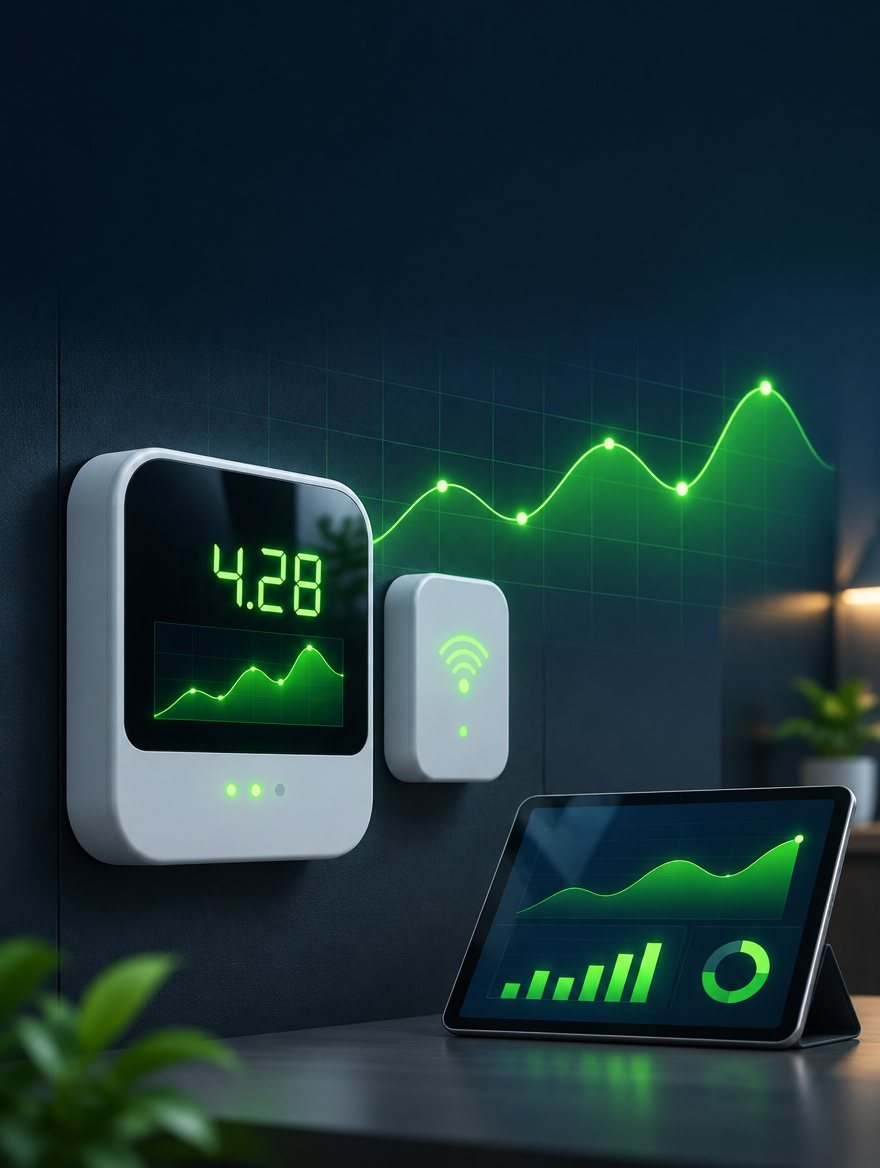
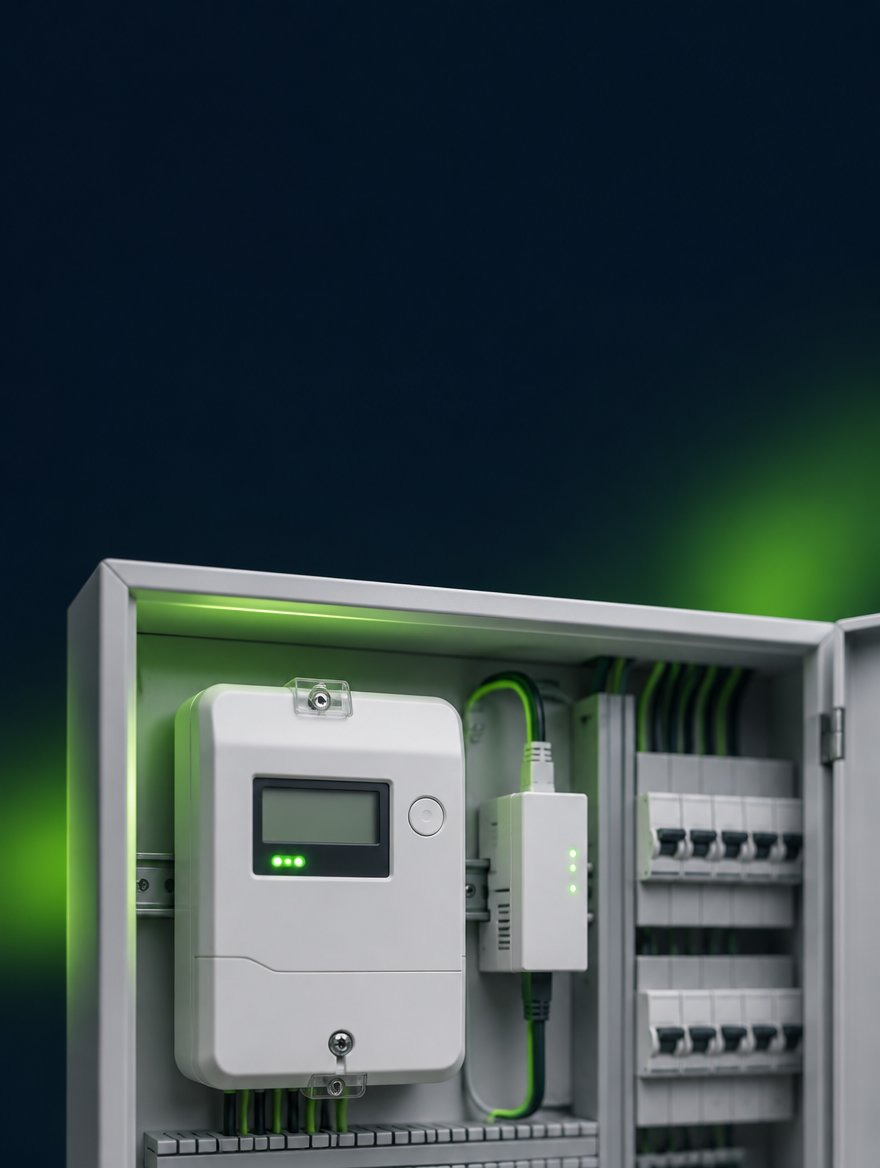
Smartmeter-Angebot: neues Titelbild (Zählerschrank mit Gateway)
Claude-Session: https://claude.ai/code/session_012wDXM64fXXeic7cDs1y8nv

diff --git a/App.jsx b/App.jsx
@@ -367,7 +367,7 @@ const stammdatenLuecken = (sd, angestellt = false) => {
   return f;
 };
 
-const VERSION = "v5.35 · 15.11.2026 · Beschaffung: alle Terminprodukte, Hedgearten, Viertelstunden, Bundesland, Spot und Ausgleichsenergie";
+const VERSION = "v5.35 · 15.11.2026 · Neues Smartmeter-Titelbild, Beschaffung: alle Terminprodukte, Hedgearten, Viertelstunden, Bundesland, Spot und Ausgleichsenergie";
 /* angezeigt werden nur Versionsnummer und Datum, nicht die Beschreibung */
 const VERSION_ANZEIGE = VERSION.split(" · ").slice(0, 2).join(" · ");
 
@@ -2804,7 +2804,7 @@ async function egcAngebotPdf(a, v, { mitarbeiter, vorversorger = {}, vollmachtBe
     doc.addPage(); smTitel = doc.getNumberOfPages();
     let bild = null;
     try {
-      const r = await fetch("/assets/smartmeter-1/titel.jpg");
+      const r = await fetch("/assets/smartmeter-2/titel.jpg");
       if (r.ok) {
         const blob = await r.blob();
         bild = await new Promise((ok, f) => { const fr = new FileReader(); fr.onload = () => ok(fr.result); fr.onerror = f; fr.readAsDataURL(blob); });
@@ -3658,7 +3658,7 @@ const UMLAGEN_VORGABE = {
   gas: [["Energiesteuer", "0,55"], ["Konvertierungsumlage", "0,018"], ["Konzessionsabgabe", "0,03"]],
 };
 /* Smartmeter-Angebot: Texte und Positionsvorlagen. Pflegen Kalkulation und GF (Einstellung „smartmeter“),
-   je Angebot änderbar. Titelbild liegt unter /assets/smartmeter-1/titel.jpg (Abbildung ähnlich). */
+   je Angebot änderbar. Titelbild liegt unter /assets/smartmeter-2/titel.jpg (Abbildung ähnlich). */
 const SMARTMETER_VORGABE = {
   titel1: "Ihre Energie.", titel2: "Jederzeit im Blick.",
   unterzeile: "Intelligente Messsysteme für Ihre Lieferstellen, mit digitalem Portal zur Verbrauchsanalyse.",

diff --git a/druckvorlagen/smartmeter/LIESMICH.md b/druckvorlagen/smartmeter/LIESMICH.md
@@ -1,8 +1,8 @@
 # Smartmeter-Titelbild
 
 `titel.jpg` ist das Titelbild der Smartmeter-Seite im Angebots-PDF (880 × 1168 Pixel).
-Erzeugt mit Higgsfield (Modell GPT Image), frei gestaltet, kein echtes Gerät und kein echtes Portal.
+Erzeugt mit Higgsfield (Modell GPT Image), frei gestaltet: Smartmeter mit Gateway im Zählerschrank (Fassung 2, 15.11.2026), kein echtes Gerät.
 Im PDF steht deshalb „Abbildung ähnlich“.
 
-Beim Bau wird es nach `dist/assets/smartmeter-1/titel.jpg` kopiert. Bei einem neuen Bild
-`SMARTMETER_STAND` in `build.mjs` und den Pfad in `App.jsx` (`/assets/smartmeter-1/`) gemeinsam erhöhen.
+Beim Bau wird es nach `dist/assets/smartmeter-<SMARTMETER_STAND>/titel.jpg` kopiert. Bei einem neuen Bild
+`SMARTMETER_STAND` in `build.mjs` und den Pfad in `App.jsx` (`/assets/smartmeter-2/`) gemeinsam erhöhen.
